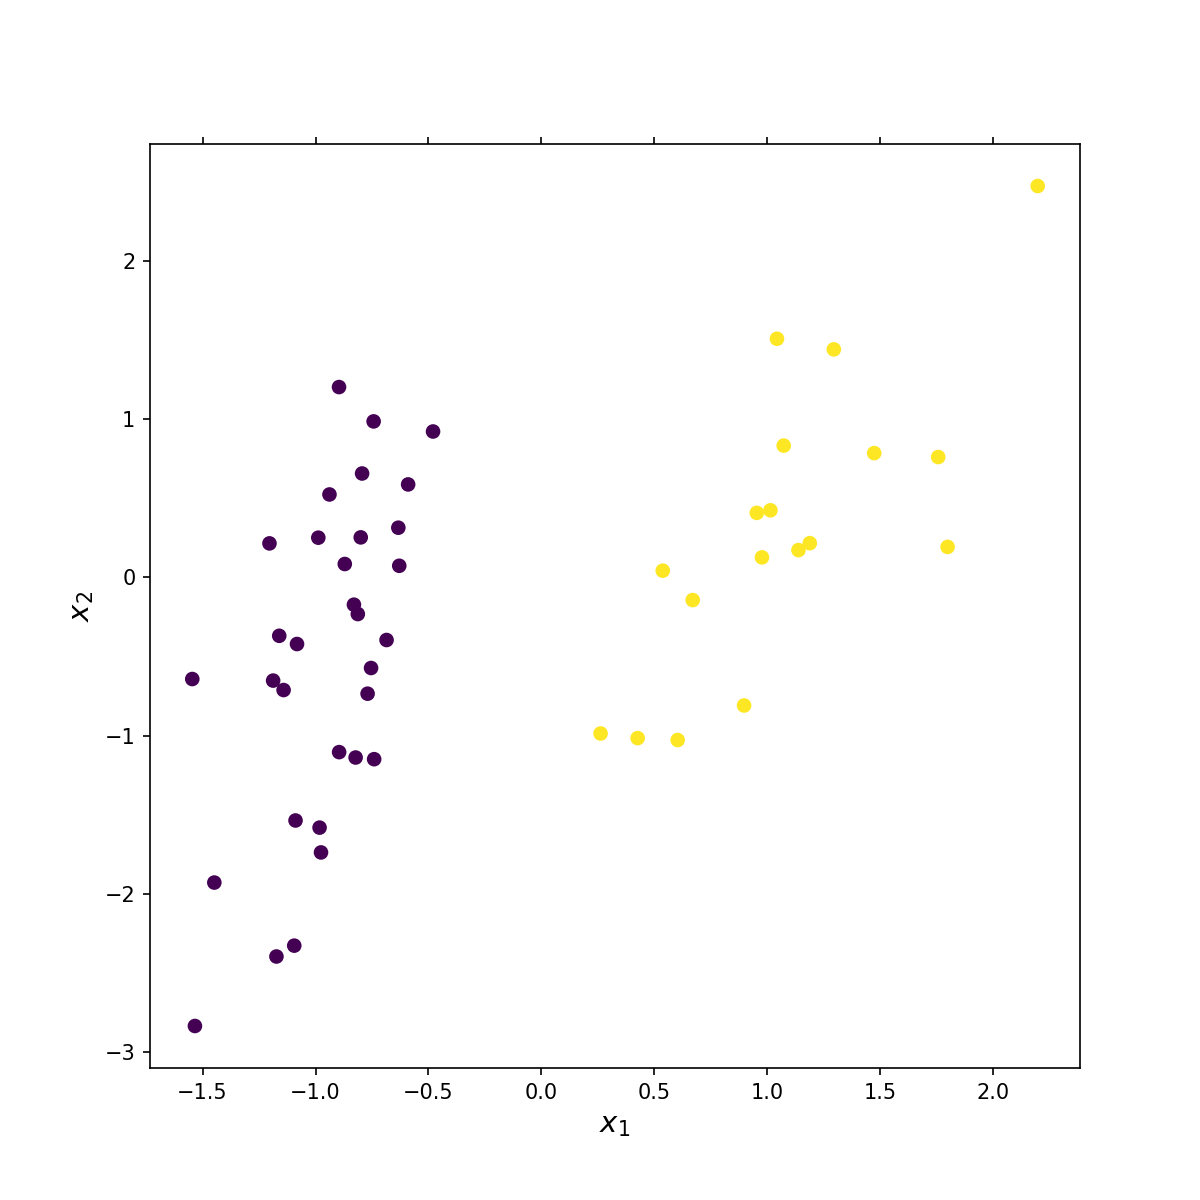
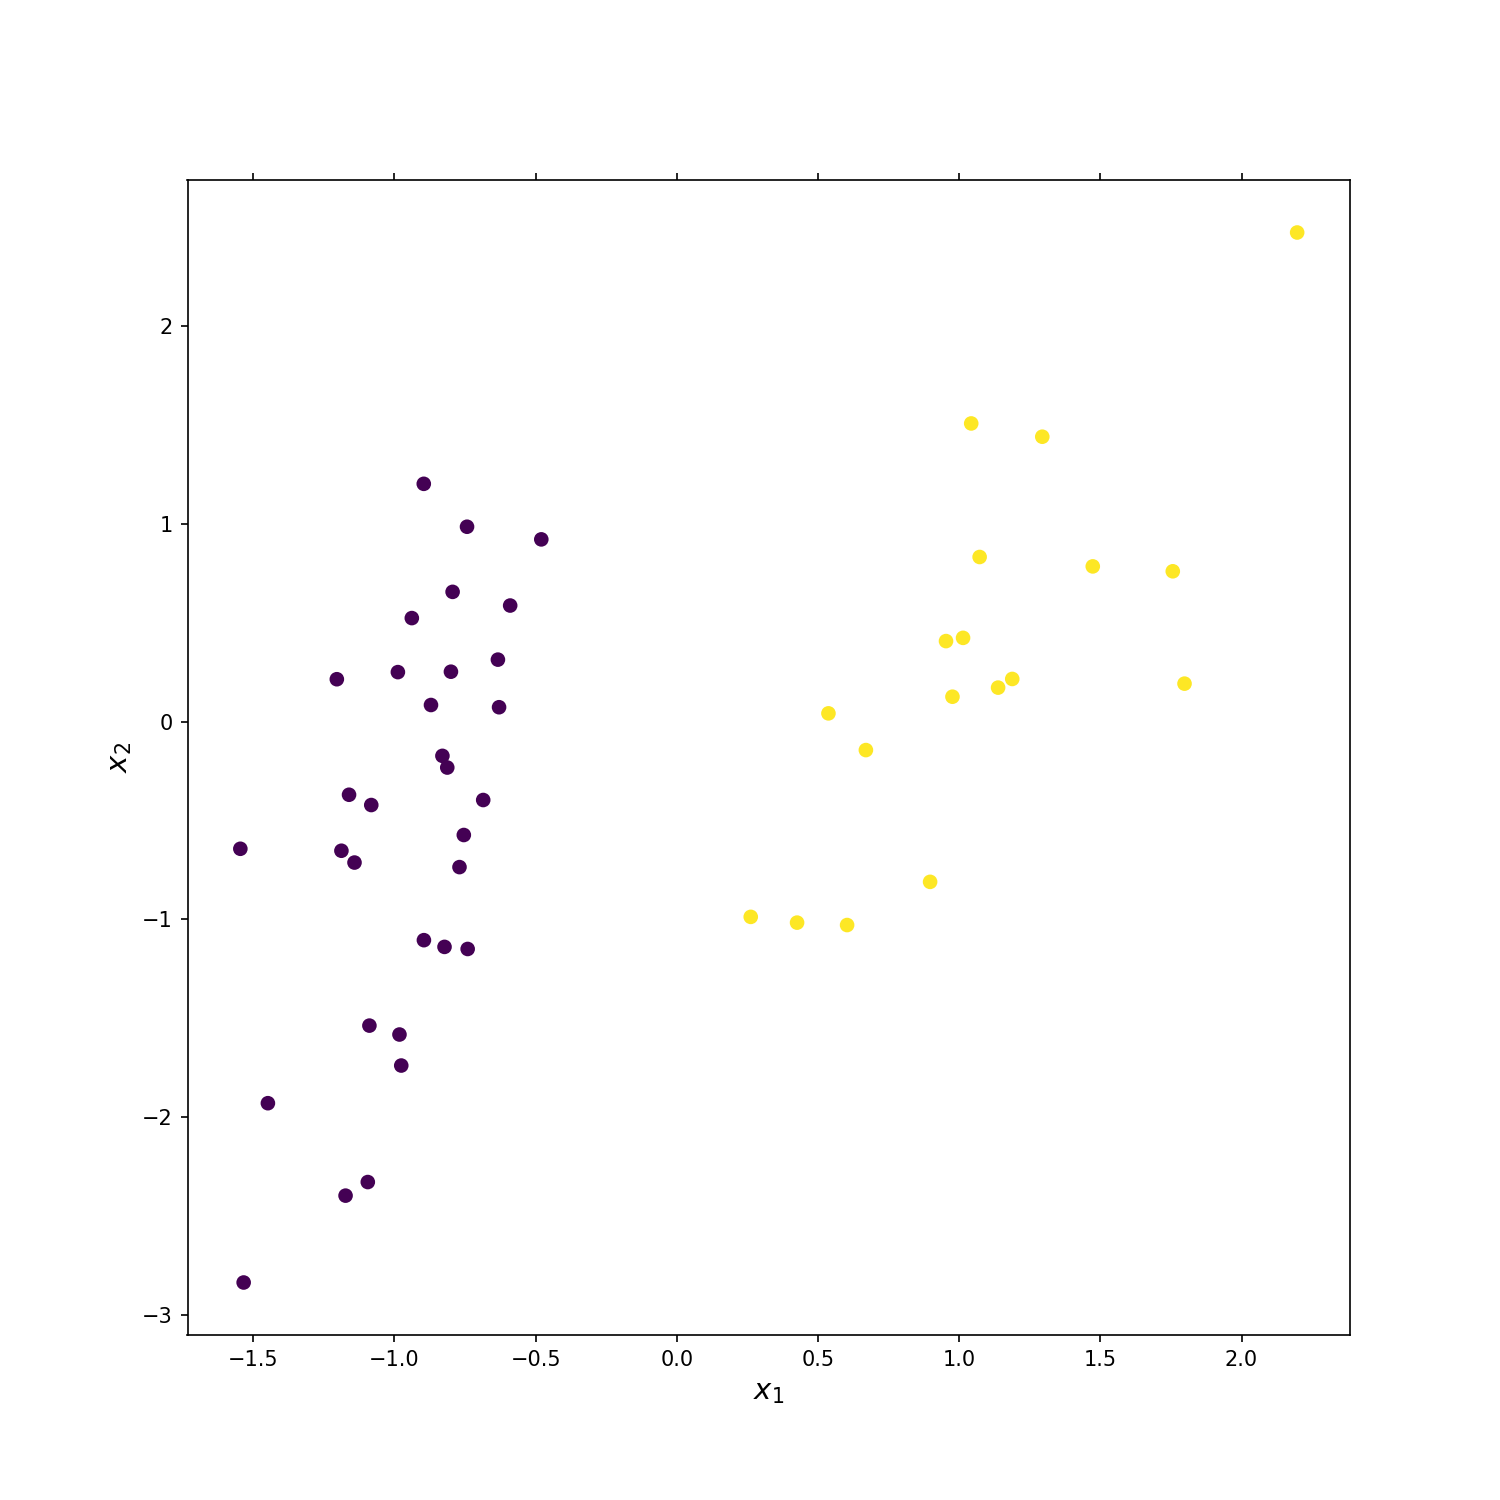
Implemented plot SGD error over epochs

diff --git a/runner_toydata.py b/runner_toydata.py
@@ -4,8 +4,9 @@ from sklearn.preprocessing import StandardScaler
 import time
 
 from svm import NonLinearFeatures
-from runner_svm_models import sklearn_svc, sequential_svm, sequential_svm, parallel_svm, parallel_svm
-from utils import load_csv, two_dim_visualization, gridsearch, five_fold_cross_validation, sgd_progress
+from runner_svm_models import sklearn_svc, sequential_svm, parallel_svm
+from utils import load_csv, gridsearch, five_fold_cross_validation, \
+    sgd_progress, plot_sgd_convergence, two_dim_scatterplot
 
 
 def runner_toydata(path, tiny):
@@ -33,8 +34,8 @@ def runner_toydata(path, tiny):
     print(f"Accuracy: {accuracy_sklearn_svc}")
 
     # define learning rate and regularization parameter range for gridsearch:
-    lr_params = [1, 1e-1, 1e-2]
-    reg_params = [1, 1e-1, 1e-2]
+    lr_params = [1, 1e-1, 1e-2, 1e-3]
+    reg_params = [1, 1e-1, 1e-2, 1e-3]
 
     # run sequential linear svm
     print('\n--- Sequential Linear SVM ---')
@@ -52,7 +53,7 @@ def runner_toydata(path, tiny):
     # Create RFF features
     print('\n--- Compute RFF features ---')
     start = time.time()
-    nlf = NonLinearFeatures(m=20, sigma=2.0)
+    nlf = NonLinearFeatures(m=100, sigma=1.0)
     X_rff = nlf.fit_transform(X)
     end = time.time()
     print(f'Runtime transformation to RFF features: {end - start}')
@@ -92,16 +93,19 @@ def runner_toydata(path, tiny):
     print('Runtime with best parameters: {}'.format(runtime))
     print('Accuracy with best parameters: {}'.format(accuracy))
 
+    # ---------- Plot results ----------
+
     if tiny:
-        # ---------- Plot results ----------
-
         # Plot true labels
-        two_dim_visualization(X_test, y_test, 'output/true.png')
+        two_dim_scatterplot(X_test, y_test, 'output/true.png')
         # Plot predicted labels
-        two_dim_visualization(X_test, y_pred_sklearn_svc, 'output/predicted_sklearn_svc.png')
-        two_dim_visualization(X_test, y_pred_seq_linear, 'output/predicted_linear_sequential.png')
-        two_dim_visualization(X_test, y_pred_par_linear, 'output/predicted_linear_parallel.png')
-        two_dim_visualization(X_test, y_pred_seq_rff, 'output/predicted_rff_sequential.png')
-        two_dim_visualization(X_test, y_pred_par_rff, 'output/predicted_rff_parallel.png')
+        two_dim_scatterplot(X_test, y_pred_sklearn_svc, 'output/predicted_sklearn_svc.png')
+        two_dim_scatterplot(X_test, y_pred_seq_linear, 'output/predicted_linear_sequential.png')
+        two_dim_scatterplot(X_test, y_pred_par_linear, 'output/predicted_linear_parallel.png')
+        two_dim_scatterplot(X_test, y_pred_seq_rff, 'output/predicted_rff_sequential.png')
+        two_dim_scatterplot(X_test, y_pred_par_rff, 'output/predicted_rff_parallel.png')
 
-    return sgd_progress_linear, sgd_progress_rff
+        plot_sgd_convergence(sgd_progress_linear, sgd_progress_rff, 'output/sgd_progress_tiny.png')
+
+    if not tiny:
+        plot_sgd_convergence(sgd_progress_linear, sgd_progress_rff, 'output/sgd_progress_large.png')

diff --git a/runner_mnist.py b/runner_mnist.py
@@ -1,11 +1,10 @@
 import matplotlib.pyplot as plt
 from sklearn.dummy import DummyClassifier
-from sklearn.model_selection import train_test_split
 from sklearn.preprocessing import StandardScaler
 import time
 
 from svm import NonLinearFeatures
-from runner_svm_models import sklearn_svc, sequential_svm, sequential_svm, parallel_svm, parallel_svm
+from runner_svm_models import sklearn_svc, sequential_svm, parallel_svm
 from utils import load_mnist, gridsearch
 
 
@@ -27,8 +26,8 @@ def runner_mnist(path):
     print("\nBaseline Accuracy: {}".format(dummy_clf.score(X_test, y_test)))
 
     # define learning rate and regularization parameter range for gridsearch:
-    lr_params = [1, 1e-1, 1e-2]
-    reg_params = [1, 1e-1, 1e-2]
+    lr_params = [1, 1e-1, 1e-2, 1e-3]
+    reg_params = [1, 1e-1, 1e-2, 1e-3]
 
     # run sequential linear svm
     print('\n--- Sequential Linear SVM ---')
@@ -40,11 +39,12 @@ def runner_mnist(path):
     print('Accuracy with best parameters: {}'.format(accuracy))
 
     # ---------- Compute RFF Features ----------
+    # using only 3000 training samples and 500 test samples
 
     # Create RFF features
     print('\n--- Compute RFF features ---')
     start = time.time()
-    nlf = NonLinearFeatures(m=2000, sigma=1.0)
+    nlf = NonLinearFeatures(m=1000, sigma=0.5)
     X_rff_train = nlf.fit_transform(X_train[:3000])
     X_rff_test = nlf.fit_transform(X_test[:500])
     end = time.time()
@@ -56,7 +56,6 @@ def runner_mnist(path):
     print('Best learning rate: {}'.format(lr))
     print('Best regularization parameter: {}'.format(reg))
     _, runtime, accuracy = sequential_svm(X_rff_train, X_rff_test, y_train[:3000], y_test[:500], lr, reg)
-
     print('Runtime with best parameters: {}'.format(runtime))
     print('Accuracy with best parameters: {}'.format(accuracy))
 
@@ -66,7 +65,6 @@ def runner_mnist(path):
     print('Best learning rate: {}'.format(lr))
     print('Best regularization parameter: {}'.format(reg))
     _, runtime, accuracy = parallel_svm(X_train, X_test, y_train, y_test, lr, reg)
-
     print('Runtime with best parameters: {}'.format(runtime))
     print('Accuracy with best parameters: {}'.format(accuracy))
 
@@ -76,7 +74,6 @@ def runner_mnist(path):
     print('Best learning rate: {}'.format(lr))
     print('Best regularization parameter: {}'.format(reg))
     _, runtime, accuracy = parallel_svm(X_rff_train, X_rff_test, y_train[:3000], y_test[:500], lr, reg)
-
     print('Runtime with best parameters: {}'.format(runtime))
     print('Accuracy with best parameters: {}'.format(accuracy))
 

diff --git a/svm.py b/svm.py
@@ -13,6 +13,7 @@ class SequentialSVM:
         self.multiclass = False
         self.n_classes = None
         self.store_sgd_progress = store_sgd_progress
+        self.stored_weights = []
         self.sgd_progress = []
 
     def _init_weights(self, X):
@@ -36,23 +37,18 @@ class SequentialSVM:
             if np.dot(x, w[:, y]) - val >= 1:
                 pass
             else:
-                dw = -x
-                # update w
-                w[:, y] -= self.lr * dw
-                # project w
-                w *= min(1, 1 / (np.linalg.norm(w) * np.sqrt(self.reg)))
+                dw = -x  # compute gradient
+                w[:, y] -= self.lr * dw  # update w
+                w *= min(1, 1 / (np.linalg.norm(w) * np.sqrt(self.reg)))  # project w
             return w
 
         else:
-            # compute gradient
             if y * np.dot(x, w) >= 1:
                 pass
             else:
-                dw = -y * x
-                # update w
-                w -= self.lr * dw
-                # project w
-                w *= min(1, 1/(np.linalg.norm(w)*np.sqrt(self.reg)))
+                dw = -y * x  # compute gradient
+                w -= self.lr * dw  # update w
+                w *= min(1, 1/(np.linalg.norm(w)*np.sqrt(self.reg)))  # project w
             return w
 
     def fit(self, X, y):
@@ -67,8 +63,16 @@ class SequentialSVM:
         # incorporate bias term b into features X
         b = np.ones((n_samples, 1))
         X = np.concatenate((X, b), axis=1)
+
         self.w = self.runner(X, y)
 
+        # this I added:
+        if self.store_sgd_progress:
+            for stored_w in self.stored_weights:
+                self.sgd_progress.append(np.linalg.norm(self.w - stored_w, ord=1))
+        # end of what was added
+
+    """
     def runner(self, X, y):
         w = self._init_weights(X)
 
@@ -77,6 +81,19 @@ class SequentialSVM:
                 old_w = np.array(w)
                 w = self._update_weights(x, y[idx], w)
                 self.sgd_progress.append(np.linalg.norm(w - old_w, ord=1))
+        else:
+            for idx, x in enumerate(X):
+                w = self._update_weights(x, y[idx], w)
+        return w
+    """
+
+    def runner(self, X, y):
+        w = self._init_weights(X)
+
+        if self.store_sgd_progress:
+            for idx, x in enumerate(X):
+                self.stored_weights.append(np.array(w))
+                w = self._update_weights(x, y[idx], w)
         else:
             for idx, x in enumerate(X):
                 w = self._update_weights(x, y[idx], w)

diff --git a/utils.py b/utils.py
@@ -58,7 +58,17 @@ def sgd_progress(method, X_train, X_test, y_train, y_test, lr, reg):
     return progress
 
 
-def two_dim_visualization(data, labels, path):
+def plot_sgd_convergence(convergence_data_linear, convergence_data_rff, path):
+    plt.figure(figsize=(10, 10))
+    plt.plot(np.arange(1, len(convergence_data_linear)+1), convergence_data_linear, label='linear')
+    plt.plot(np.arange(1, len(convergence_data_rff) + 1), convergence_data_rff, label='rff')
+    plt.xlabel('number of SGD epochs')
+    plt.ylabel('SGD training error')
+    plt.legend()
+    plt.savefig(path, dpi=150)
+
+
+def two_dim_scatterplot(data, labels, path):
     """
     Create a 2D scatter plot from the given input data with coloring corresponding to the labelling.
 
@@ -73,7 +83,7 @@ def two_dim_visualization(data, labels, path):
     """
 
     x1, x2 = data[:, 0], data[:, 1]
-    plt.figure(figsize=(8, 8))
+    plt.figure(figsize=(10, 10))
     plt.scatter(x1, x2, c=labels)
     plt.tick_params(axis='x', which='both', bottom='off', top='off', labelbottom='off')
     plt.tick_params(axis='y', which='both', left='off', top='off', labelleft='off')

diff --git a/main.py b/main.py
@@ -10,6 +10,6 @@ if __name__ == '__main__':
     mnist = 'data/mnist.npz'
 
     # run procedures on all three datasets
-    sgd_progress_linear_tiny, sgd_progress_rff_tiny = runner_toydata(toy_tiny, tiny=True)
-    sgd_progress_linear_large, sgd_progress_rff_large = runner_toydata(toy_large, tiny=False)
+    runner_toydata(toy_tiny, tiny=True)
+    runner_toydata(toy_large, tiny=False)
     runner_mnist(mnist)
